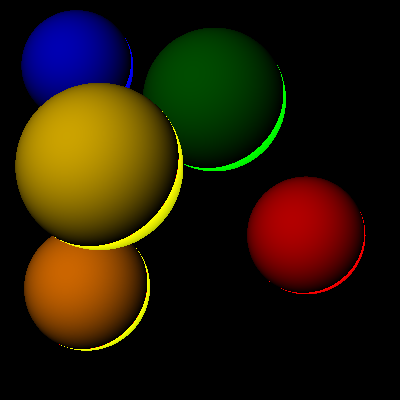
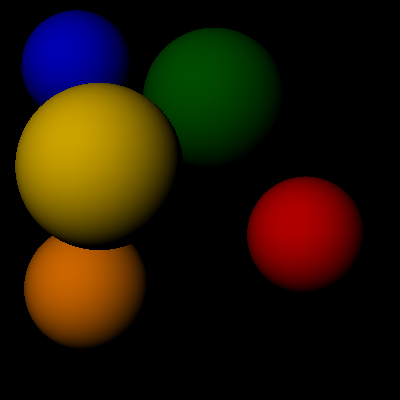
So mt bom

diff --git a/scene.cpp b/scene.cpp
@@ -63,10 +63,14 @@ Color Scene::trace(const Ray &ray)
     Vector unit_light = aux_light.normalized();
     
     double cosine_factor = N.normalized().dot(unit_light);
+    if (cosine_factor < 0)
+    {
+        cosine_factor = 0;
+    }
     
-    double r = material->kd * cosine_factor * material->color.r;
-    double g = material->kd * cosine_factor * material->color.g;
-    double b = material->kd * cosine_factor * material->color.b;
+    double r = (material->kd * cosine_factor * material->color.r);
+    double g = (material->kd * cosine_factor * material->color.g);
+    double b = (material->kd * cosine_factor * material->color.b);
      
     Color color(r,g,b);
     
